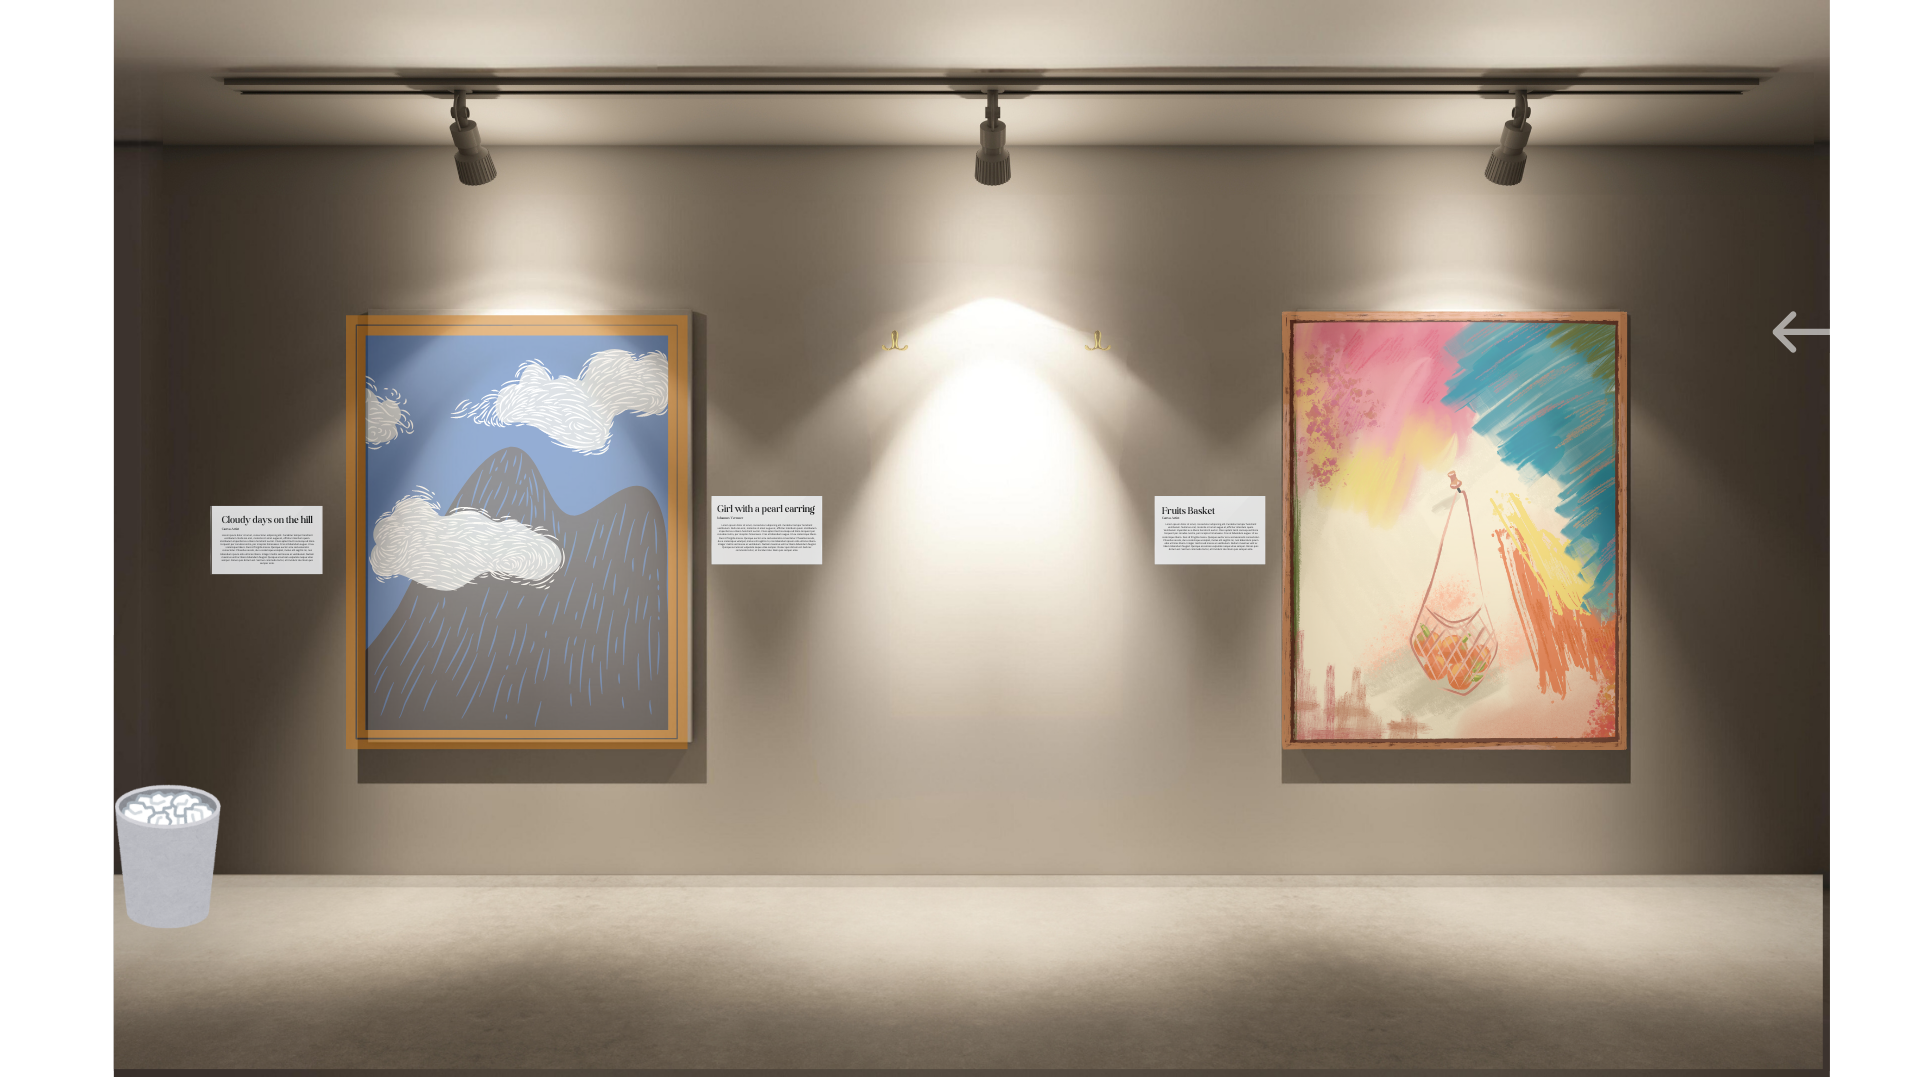
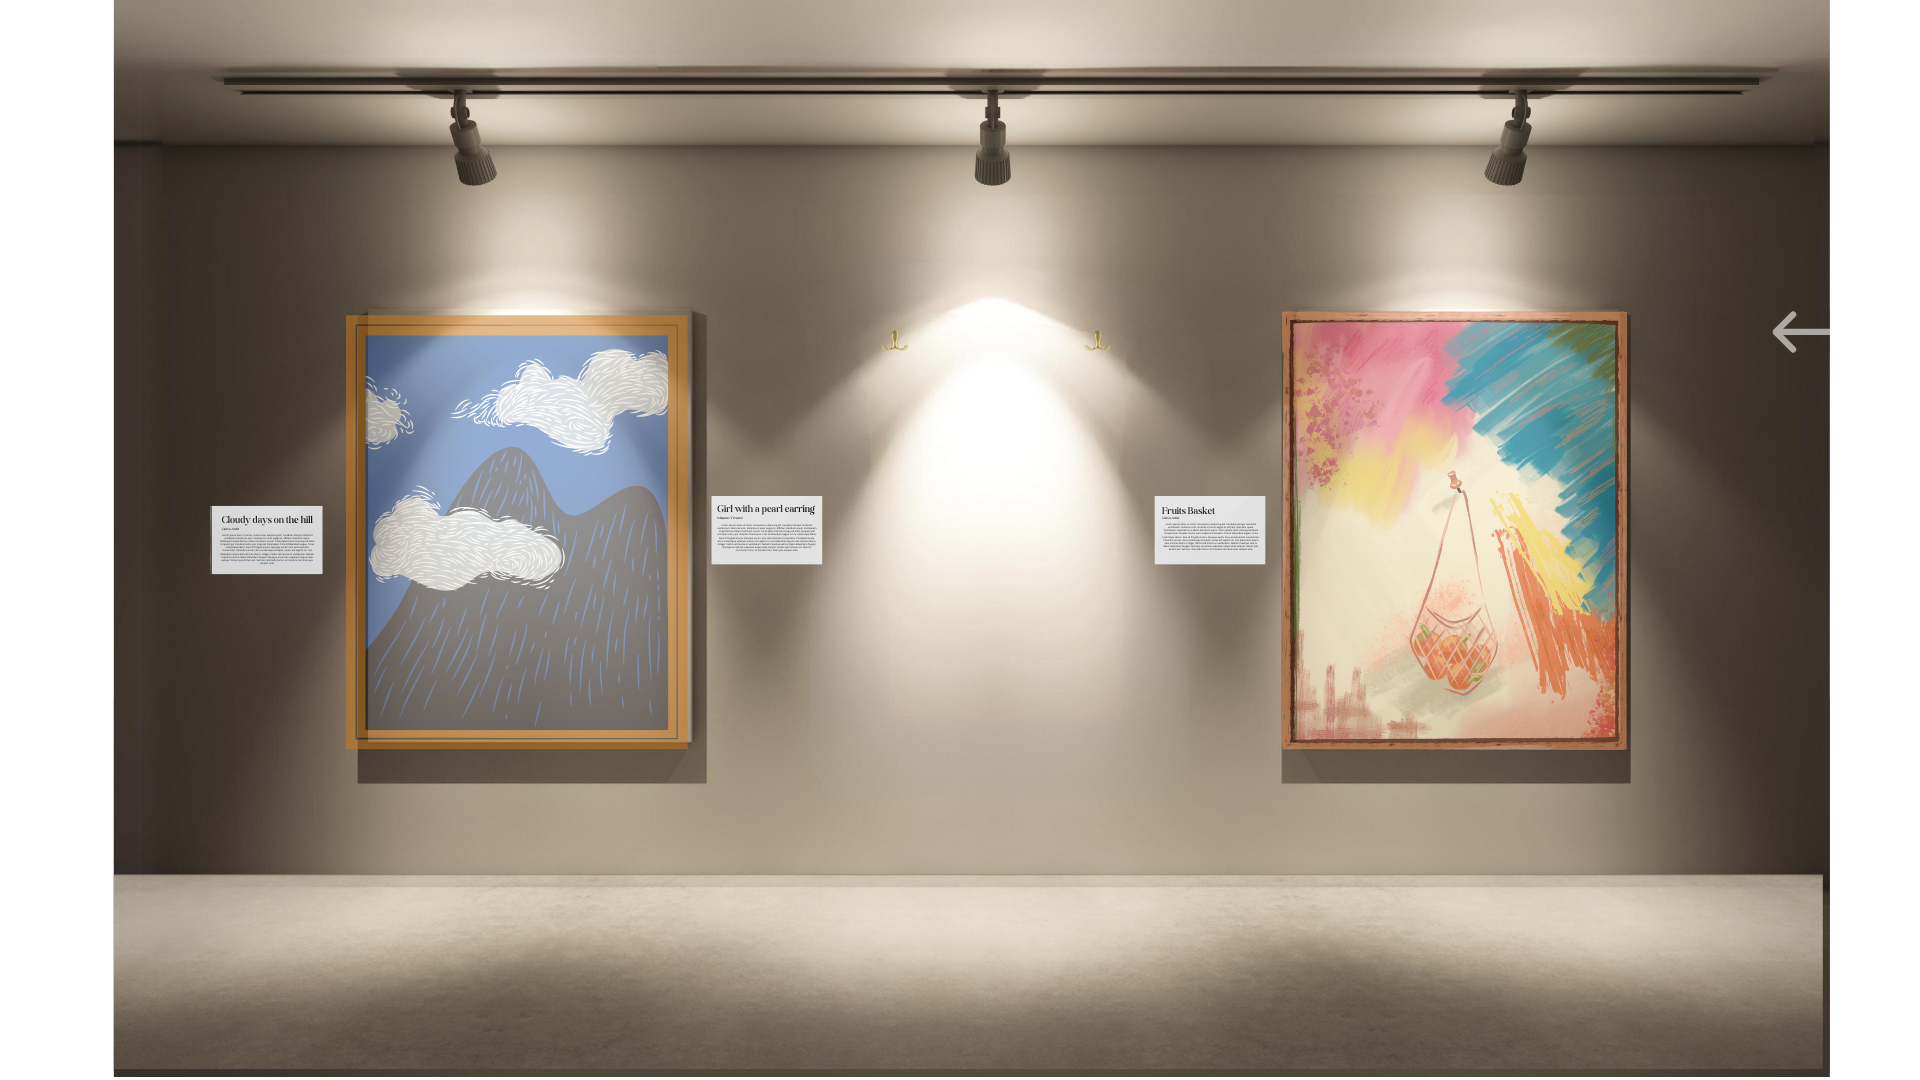
added the security room door onHover animation

Changed region(s): [[0.0625, 0.7028, 0.125, 0.8556]]

diff --git a/src/main/java/nz/ac/auckland/se206/controllers/RoomController.java b/src/main/java/nz/ac/auckland/se206/controllers/RoomController.java
@@ -83,6 +83,8 @@ public class RoomController implements RoomNavigationHandler {
   @FXML private ImageView mainRightArrow;
   @FXML private ImageView arrowLeft;
   @FXML private ImageView arrowRight;
+  @FXML private ImageView securityDoorClosed;
+  @FXML private ImageView securityDoorOpened;
   @FXML private Rectangle rectSecurityCamera;
   @FXML private Rectangle rectPerson1;
   @FXML private Rectangle rectPerson2;
@@ -233,6 +235,46 @@ public class RoomController implements RoomNavigationHandler {
     }
     player = new MediaPlayer(sound);
     player.play();
+  }
+
+  /**
+   * Handles mouse hover events on the clues in the room.
+   *
+   * @param event the mouse event triggered by hovering over a clue
+   */
+  @FXML
+  private void onHoverClue(MouseEvent event) {
+    Rectangle hoveredClue = (Rectangle) event.getSource();
+    switch (hoveredClue.getId()) {
+      case "rectSecurityRoom":
+        securityDoorClosed.setVisible(false);
+        securityDoorOpened.setVisible(true);
+        break;
+      case "rectBin":
+        break;
+      case "rectPaperClue":
+        break;
+    }
+  }
+
+  /**
+   * Handles mouse exit events on the clues in the room.
+   *
+   * @param event the mouse event triggered by exiting hover of a clue
+   */
+  @FXML
+  private void onExitClue(MouseEvent event) {
+    Rectangle hoveredClue = (Rectangle) event.getSource();
+    switch (hoveredClue.getId()) {
+      case "rectSecurityRoom":
+        securityDoorClosed.setVisible(true);
+        securityDoorOpened.setVisible(false);
+        break;
+      case "rectBin":
+        break;
+      case "rectPaperClue":
+        break;
+    }
   }
 
   /**
